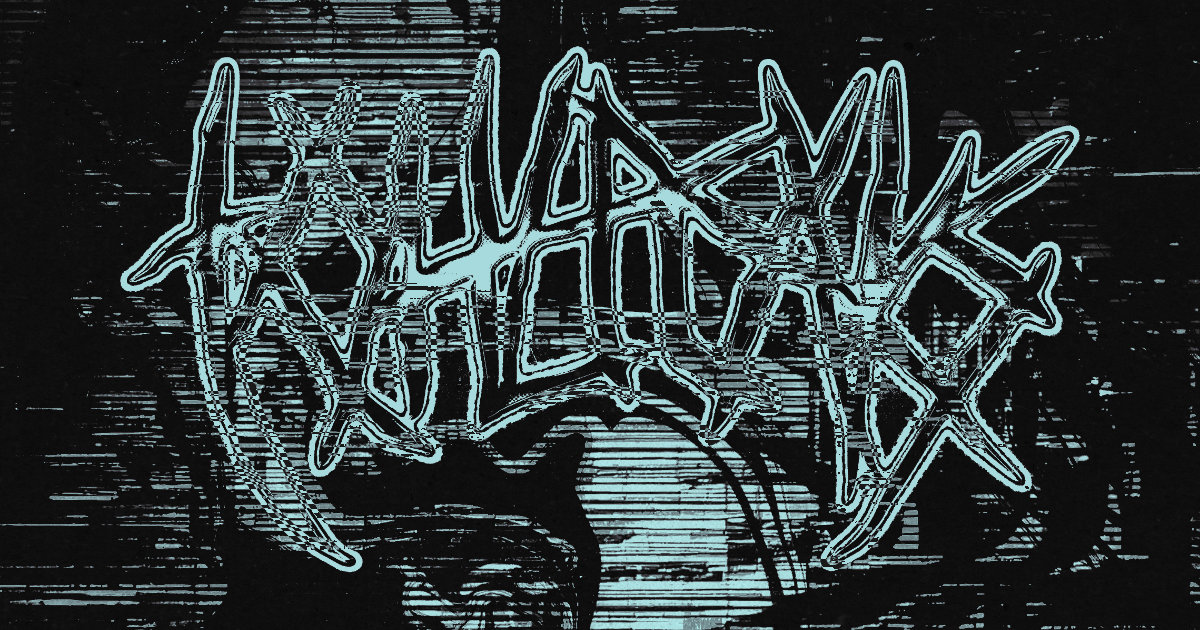
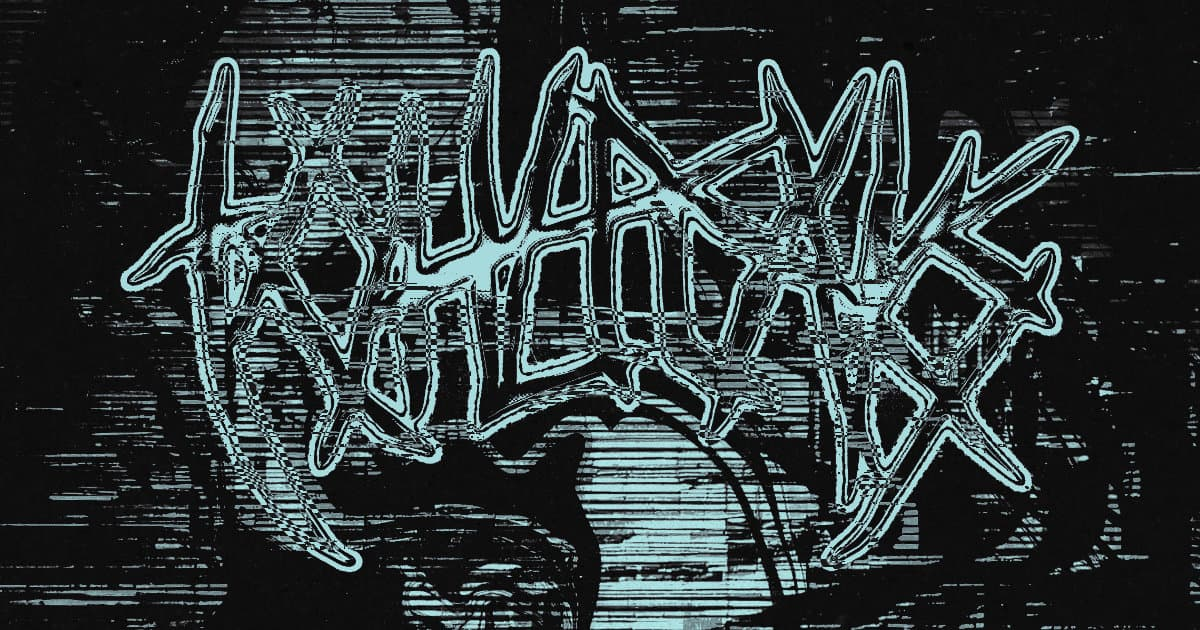
style(styles): enhance body styles with line-height and letter-spacing for better readability style(styles): change background-blend-mode to difference for improved visual effect style(styles): adjust link hover state to remove text decoration for cleaner appearance fix(svg): update fill color in tl

diff --git a/src/routes/styles/foundation/_base.scss b/src/routes/styles/foundation/_base.scss
@@ -42,10 +42,12 @@ body {
 	font-size: clamp(16px, round(up, 3vw, 2px), 24px);
 	font-weight: 400;
 	color: var(--c-primary);
+	line-height: 1.8;
+	letter-spacing: 0.01rem;
 	background:
 		no-repeat fixed top 0 right 0.625em / 55% url(/images/tlp-grind.svg),
 		var(--c-bg-primary);
-	background-blend-mode: normal;
+	background-blend-mode: difference;
 	font-family:
 		'Work Sans', 'Helvetica Neue', 'Arial', 'Hiragino Kaku Gothic ProN', 'Hiragino Sans',
 		'Noto Sans JP', 'BIZ UDPGothic', sans-serif;
@@ -58,7 +60,7 @@ body {
 			no-repeat fixed top 0 right 0.625em / 55% url(/images/tlp-grind.svg),
 			repeat fixed 0% 0% / auto url(/images/noise.svg),
 			var(--c-bg-primary);
-		background-blend-mode: normal, hard-light;
+		background-blend-mode: difference, hard-light;
 	}
 }
 
@@ -78,10 +80,11 @@ address {
 
 a {
 	color: var(--c-accent-blue);
+	text-underline-offset: calc((1lh - 1cap) / 2 / 3);
 
 	@media (hover: hover) {
 		&:hover {
-			color: var(--c-accent-red);
+			text-decoration: none;
 		}
 	}
 
